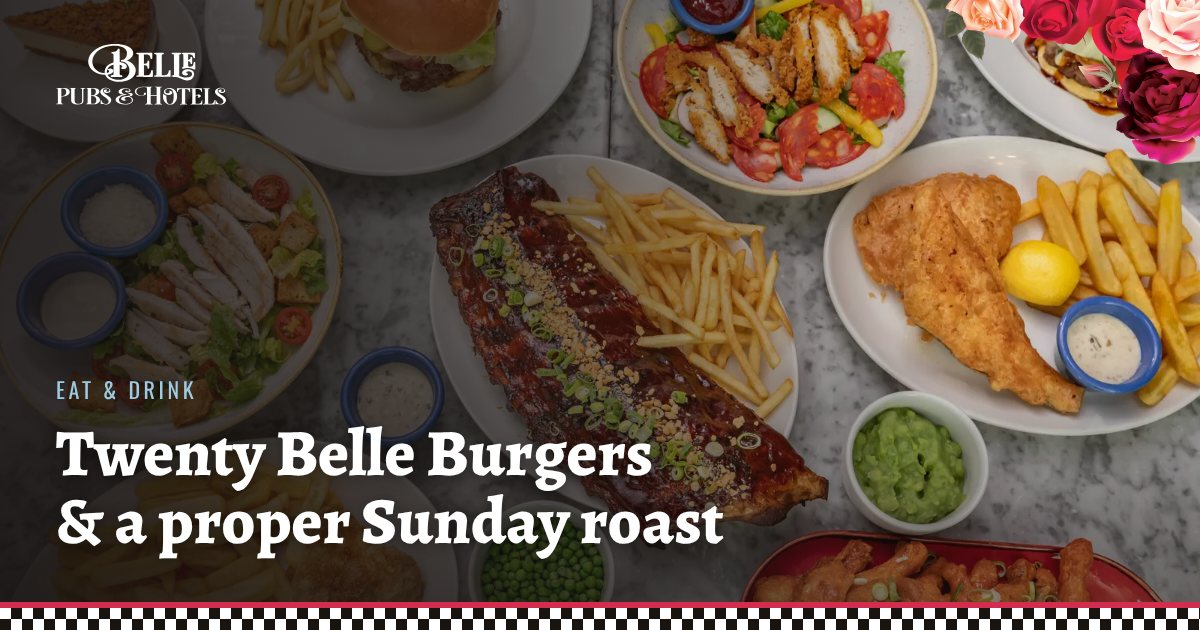
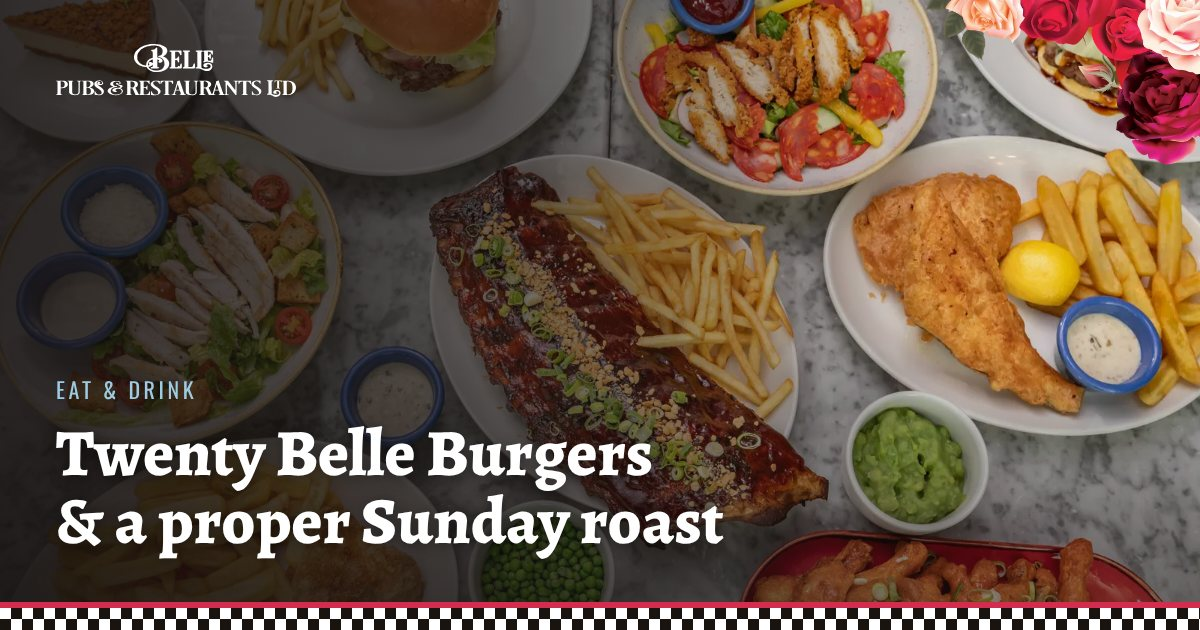
Use Belle Pubs & Restaurants Ltd as the company name throughout
Swap the group logo for a trace of the Belle Pubs & Restaurants Ltd
header logo, update the site name, page titles, link-preview images,
footer, README and research notes.

Changed region(s): [[0.0308, 0.0603, 0.2467, 0.181]]

diff --git a/scripts/build-og.js b/scripts/build-og.js
@@ -12,7 +12,7 @@ const logo = (n) => fs.readFileSync(path.join(ROOT, "src/assets/logos", `${n}.sv
 const file = (p) => "file://" + path.join(ROOT, p);
 
 const CARDS = [
-  { name: "home", photo: "duchess-exterior", kicker: "Belle Pubs & Hotels", title: "Five London sports pubs.<br>Forty rooms upstairs.", pos: "50% 40%" },
+  { name: "home", photo: "duchess-exterior", kicker: "Belle Pubs & Restaurants", title: "Five London sports pubs.<br>Forty rooms upstairs.", pos: "50% 40%" },
   { name: "sport", photo: "griffin-screens", kicker: "What's on at the Belle", title: "Every big game,<br>sound on.", pos: "50% 50%" },
   { name: "stay", photo: "room-griffin-king", kicker: "Stay at the Belle", title: "Come as a guest.<br>Leave as family.", pos: "50% 55%" },
   { name: "christmas", photo: "duchess-upstairs", kicker: "Christmas 2026", title: "Parties from £33 a head", pos: "50% 50%" },
@@ -24,7 +24,7 @@ const CARDS = [
   { name: "griffin", photo: "griffin-exterior", venue: "griffin", title: "Award-winning sport & 14 rooms in Vauxhall", pos: "50% 40%" },
   { name: "hammersmith", photo: "hammersmith-night", venue: "hammersmith", title: "The Enchanted Garden on King Street", pos: "50% 62%" },
   { name: "jobs", photo: "rose-wall", kicker: "Work with us", title: "Pull pints. Make people's day.", pos: "50% 50%" },
-  { name: "contact", photo: "duchess-flowers", kicker: "Belle Pubs & Hotels", title: "Five pubs, one hello", pos: "50% 50%" },
+  { name: "contact", photo: "duchess-flowers", kicker: "Belle Pubs & Restaurants", title: "Five pubs, one hello", pos: "50% 50%" },
 ];
 
 const biggest = (n) => images[n][0].w;
@@ -36,7 +36,7 @@ body { width: 1200px; height: 630px; position: relative; overflow: hidden; backg
 .bg { position: absolute; inset: 0; background: url(${file(`src/assets/img/${c.photo}-${biggest(c.photo)}.webp`)}) ${c.pos} / cover; }
 .shade { position: absolute; inset: 0; background: linear-gradient(90deg, rgba(20,16,15,.88) 0%, rgba(20,16,15,.6) 46%, rgba(20,16,15,.05) 80%), linear-gradient(0deg, rgba(20,16,15,.55), transparent 45%); }
 .roses { position: absolute; right: -40px; top: -46px; width: 330px; transform: scaleX(-1); }
-.group { position: absolute; left: 56px; top: 44px; width: 170px; color: #fff; }
+.group { position: absolute; left: 56px; top: 44px; width: 240px; color: #fff; }
 .group svg, .venue svg { width: 100%; height: auto; display: block; }
 .copy { position: absolute; left: 56px; bottom: 74px; width: 700px; color: #fff; }
 .kicker { font-family: Oswald; text-transform: uppercase; letter-spacing: .16em; font-size: 22px; color: #9dcbe4; margin-bottom: 14px; }

diff --git a/scripts/build-images.js b/scripts/build-images.js
@@ -125,7 +125,7 @@ const EXTRACTED_CUTOUTS = {
 };
 
 const LOGO_SOURCES = {
-  group: "ba1f1a_92d1b69b2c4c4461814c4bc64e51700a.png",
+  group: "ba1f1a_66f354cce6304c5c871c180499a8cbf6.jpg",
   moretown: "c6e57a_49335b2ec4a8493a89d20aeb52e49528.jpg",
   duchess: "ba1f1a_dcf9f7b2ea2c4ab39ba162b38301f64b.jpg",
   fitzrovia: "ba1f1a_19b4855ddd4e4a1d8f510c41ffe6c294.jpg",
@@ -154,7 +154,7 @@ async function traceLogo(name, file) {
   const png = await sharp(file)
     .flatten({ background: "#ffffff" })
     .toColourspace("srgb")
-    .resize({ width: 2400, withoutEnlargement: true })
+    .resize({ width: 2400, kernel: "lanczos3" })
     .greyscale()
     .threshold(150)
     .png()
@@ -179,15 +179,16 @@ await fs.mkdir(OUT, { recursive: true });
 await fs.mkdir(LOGOS, { recursive: true });
 
 const index = {};
-for (const [name, [file, widths]] of Object.entries(IMAGES)) {
+const logosOnly = process.argv.includes("--logos-only");
+for (const [name, [file, widths]] of logosOnly ? [] : Object.entries(IMAGES)) {
   const r = await variants(name, path.join(SRC, file), widths);
   index[name] = r.sizes;
   console.log(name, r.sizes.map((s) => `${s.w}x${s.h}`).join(" "));
 }
-for (const [name, [file, widths]] of Object.entries(CUTOUTS)) {
+for (const [name, [file, widths]] of logosOnly ? [] : Object.entries(CUTOUTS)) {
   index[name] = (await variants(name, path.join(SRC, file), widths, { alpha: true })).sizes;
 }
-for (const [name, [file, widths]] of Object.entries(EXTRACTED_CUTOUTS)) {
+for (const [name, [file, widths]] of logosOnly ? [] : Object.entries(EXTRACTED_CUTOUTS)) {
   index[name] = (await variants(name, path.join(EXTRACTED, file), widths, { alpha: true })).sizes;
 }
 const logos = {};
@@ -196,5 +197,5 @@ for (const [name, file] of Object.entries(LOGO_SOURCES)) {
   logos[name] = r.aspect;
   console.log("logo", name, r.aspect);
 }
-await fs.writeFile(path.join(ROOT, "src/_data/images.json"), JSON.stringify(index, null, 1));
+if (!logosOnly) await fs.writeFile(path.join(ROOT, "src/_data/images.json"), JSON.stringify(index, null, 1));
 await fs.writeFile(path.join(ROOT, "src/_data/logos.json"), JSON.stringify(logos, null, 1));

diff --git a/src/assets/css/site.css b/src/assets/css/site.css
@@ -1,4 +1,4 @@
-/* Belle Pubs & Hotels
+/* Belle Pubs & Restaurants
    Colours are sampled from Belle's own menus, roses and pubs (see RESEARCH.md §5.2).
    Alegreya stands in for the Amerigo BT on the printed menus; Oswald matches the offer posters. */
 
@@ -155,7 +155,7 @@ button, input, select, textarea { font: inherit; color: inherit; }
 .masthead__bar { display: flex; align-items: center; gap: 14px; min-height: 68px; }
 .masthead__brand { color: var(--black); flex: 0 0 auto; }
 .theme-night .masthead__brand { color: #fff; }
-.masthead__brand .logo { height: 44px; width: auto; }
+.masthead__brand .logo { height: 48px; width: auto; }
 .masthead__nav { display: none; margin-left: auto; }
 .masthead__nav > ul { display: flex; gap: clamp(10px, 1.6vw, 26px); list-style: none; margin: 0; padding: 0; align-items: center; }
 .masthead__nav a, .venue-menu summary { font-family: var(--cond); text-transform: uppercase; letter-spacing: .07em; font-size: .9rem; text-decoration: none; padding: 6px 0; cursor: pointer; }

diff --git a/src/_data/site.js b/src/_data/site.js
@@ -4,7 +4,8 @@ const origin = (process.env.SITE_ORIGIN || "https://alexwilder-dev.github.io").r
 const prefix = process.env.PATH_PREFIX || "/belle-pubs/";
 
 export default {
-  name: "Belle Pubs & Hotels",
+  name: "Belle Pubs & Restaurants",
+  company: "Belle Pubs & Restaurants Ltd",
   line: "Beautiful sports pubs & hotel rooms",
   origin,
   prefix,

diff --git a/src/assets/js/site.js b/src/assets/js/site.js
@@ -1,4 +1,4 @@
-// Belle Pubs & Hotels: small, dependency-free enhancements. Every page works without it.
+// Belle Pubs & Restaurants: small, dependency-free enhancements. Every page works without it.
 (() => {
   const $ = (s, el = document) => el.querySelector(s);
   const $$ = (s, el = document) => [...el.querySelectorAll(s)];

diff --git a/RESEARCH.md b/RESEARCH.md
@@ -1,4 +1,4 @@
-# Belle Pubs & Hotels: research
+# Belle Pubs & Restaurants: research
 
 Compiled 17 October 2026 for a speculative redesign pitch. Everything below was seen in a source listed in section 11; where sources disagree, both are given. Anything not verified is marked **unverified**.
 
@@ -10,9 +10,9 @@ Method: one script pulled all 14 pages in their Wix sitemap. One download script
 
 | | |
 |---|---|
-| Company | **Belle Pubs and Hotels Limited**, Companies House 11082149. Pubology and older material still say "Belle Pubs and Restaurants". |
+| Company | **Belle Pubs & Restaurants Ltd**, confirmed by Alex on 17 October 2026, and the name the site uses throughout. A Companies House search also turned up a separate registration, Belle Pubs and Hotels Limited (11082149). |
 | Founders | David Evans and Jane White. Jane White is managing director (Morning Advertiser, 29 May 2025). |
-| Trading name in use | Two names at once. The site header logo says **Belle Pubs & Restaurants Ltd**; the footer logo, page titles on newer pages, press releases and the weekly-offers poster say **Belle Pubs & Hotels**. The domain is still `bellepubsandrestaurants.co.uk`. |
+| Trading name in use | The current site mixes two names. Its header logo, its page titles and the domain (`bellepubsandrestaurants.co.uk`) say **Belle Pubs & Restaurants Ltd**; the footer logo, some newer page titles, press releases and the weekly-offers poster say "Belle Pubs & Hotels". **The new site uses Belle Pubs & Restaurants Ltd everywhere**, with the header logo traced to SVG. |
 | Their own lines | "**Beautiful Sports Pubs & Hotel Rooms**" (homepage). "**Come as a guest · Leave as family**" (the 'Belle Hotel Rooms' roundel badge). |
 | Venues | Five London sports pubs. Four now have rooms: Fitzrovia 5, Duchess 8, Griffin 14 and Hammersmith 13, so **40 rooms**. The weekly-offers poster still says "27 boutique hotel rooms", which is 5 + 8 + 14 without Hammersmith. |
 | Pubs owned by | Leaseholds. Griffin and Hammersmith are Star Pubs & Bars (Heineken) freeholds; Fitzrovia is Greene King (Pubology, WhatPub). |
@@ -275,7 +275,7 @@ Wix. 14 pages in the sitemap: Home, Belle Venues (`/bellepubsandrestaurants`), f
 6. **Menus are PDFs.** They are A4 sheets, landscape for four venues and portrait for Moretown, so they're unreadable on a phone. Four venues' "FOOD MENU" links open the same file. The site says 21 burgers; the menu lists 20.
 7. **The Rosie Galligan copy is two seasons stale**: World Cup "aspiration" (she won it) and "Saracens" (Harlequins since June 2026).
 8. **Hours disagree** between the homepage footer and the venue pages for the Duchess, Fitzrovia and Griffin. Moretown's Sunday opening reads "080.30hrs". CAMRA, WhatPub and DesignMyNight carry other hours again.
-9. **Two brand names on one page** (header "Pubs & Restaurants Ltd", footer "Pubs & Hotels"). Page titles are truncated to "Belle Pubs & Rest".
+9. **Two brand names on one page** (header "Pubs & Restaurants Ltd", footer "Pubs & Hotels"). Page titles are truncated to "Belle Pubs & Rest". The new site standardises on Belle Pubs & Restaurants Ltd.
 10. **No og:image on any page**, so a pasted link shows no picture. og:site_name is "Belle Pubs & Rest".
 11. **Broken links**: "VIEW MORE" for Hammersmith on the venues page goes to the homepage. Hammersmith has no social links.
 12. **Typos and errors**: "St Katherine's", "Moretown business development", "wirh", "all eith en-suite", "afabulous", "Battersea Power Station Station", "Tottenham Court" (no Road), "Accomodation" (in URL and title), "Griffin Belle Belle – Supervisor". On the PDFs: prawn cocktail marked (v)/(ve), and a Gmail address on the Fitzrovia menu.

diff --git a/README.md b/README.md
@@ -1,6 +1,6 @@
-# Belle Pubs & Hotels: website preview
+# Belle Pubs & Restaurants: website preview
 
-A speculative redesign for [Belle Pubs & Hotels](https://www.bellepubsandrestaurants.co.uk): five London sports pubs, four with boutique rooms. It's a static site with mock forms that send nothing. The research behind every design choice is in [RESEARCH.md](RESEARCH.md).
+A speculative redesign for [Belle Pubs & Restaurants Ltd](https://www.bellepubsandrestaurants.co.uk): five London sports pubs, four with boutique rooms. It's a static site with mock forms that send nothing. The research behind every design choice is in [RESEARCH.md](RESEARCH.md).
 
 ## Run it
 
